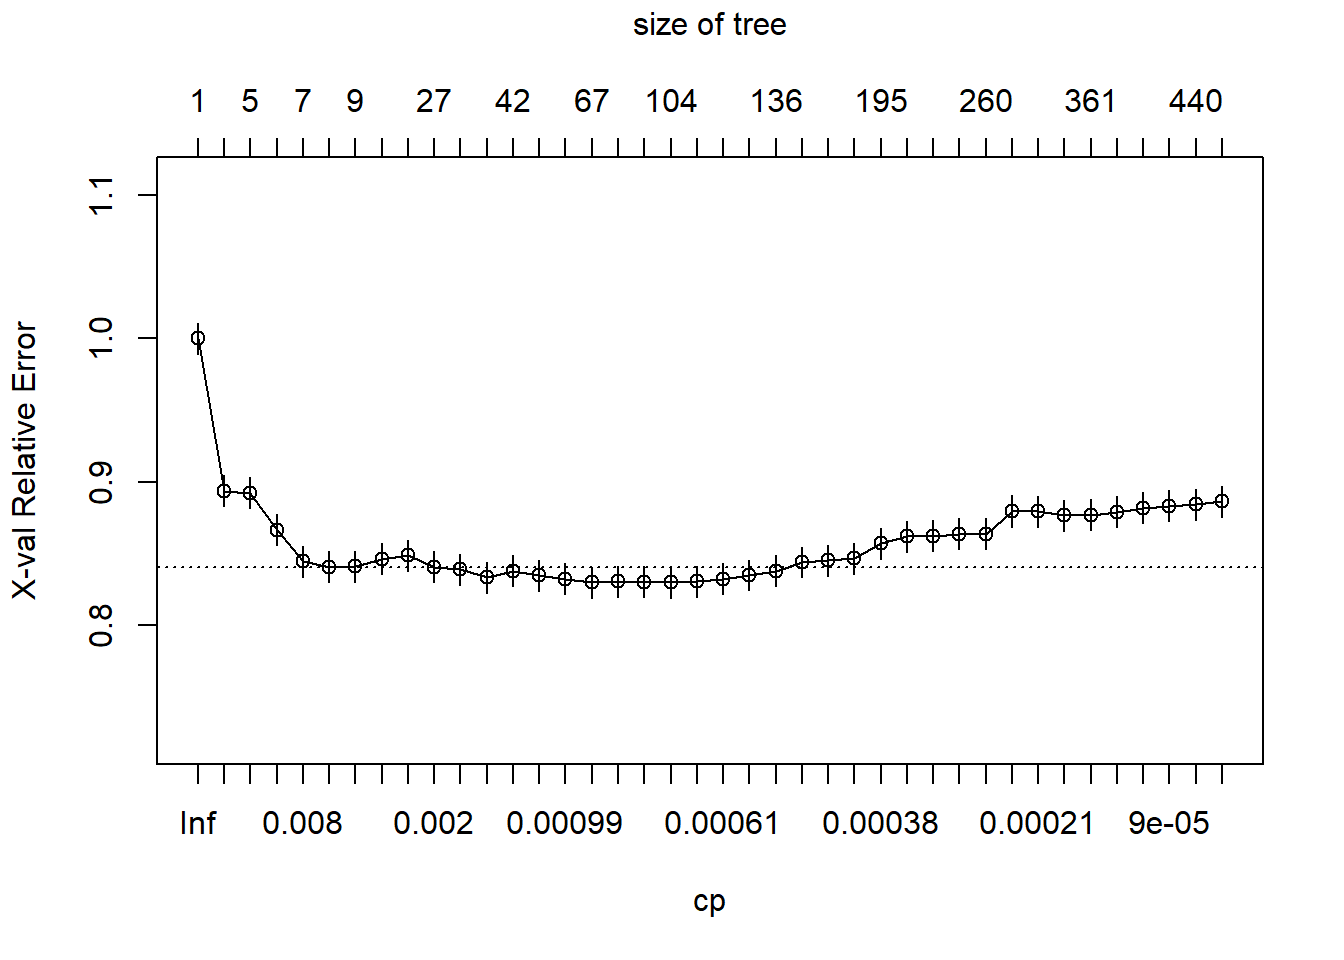
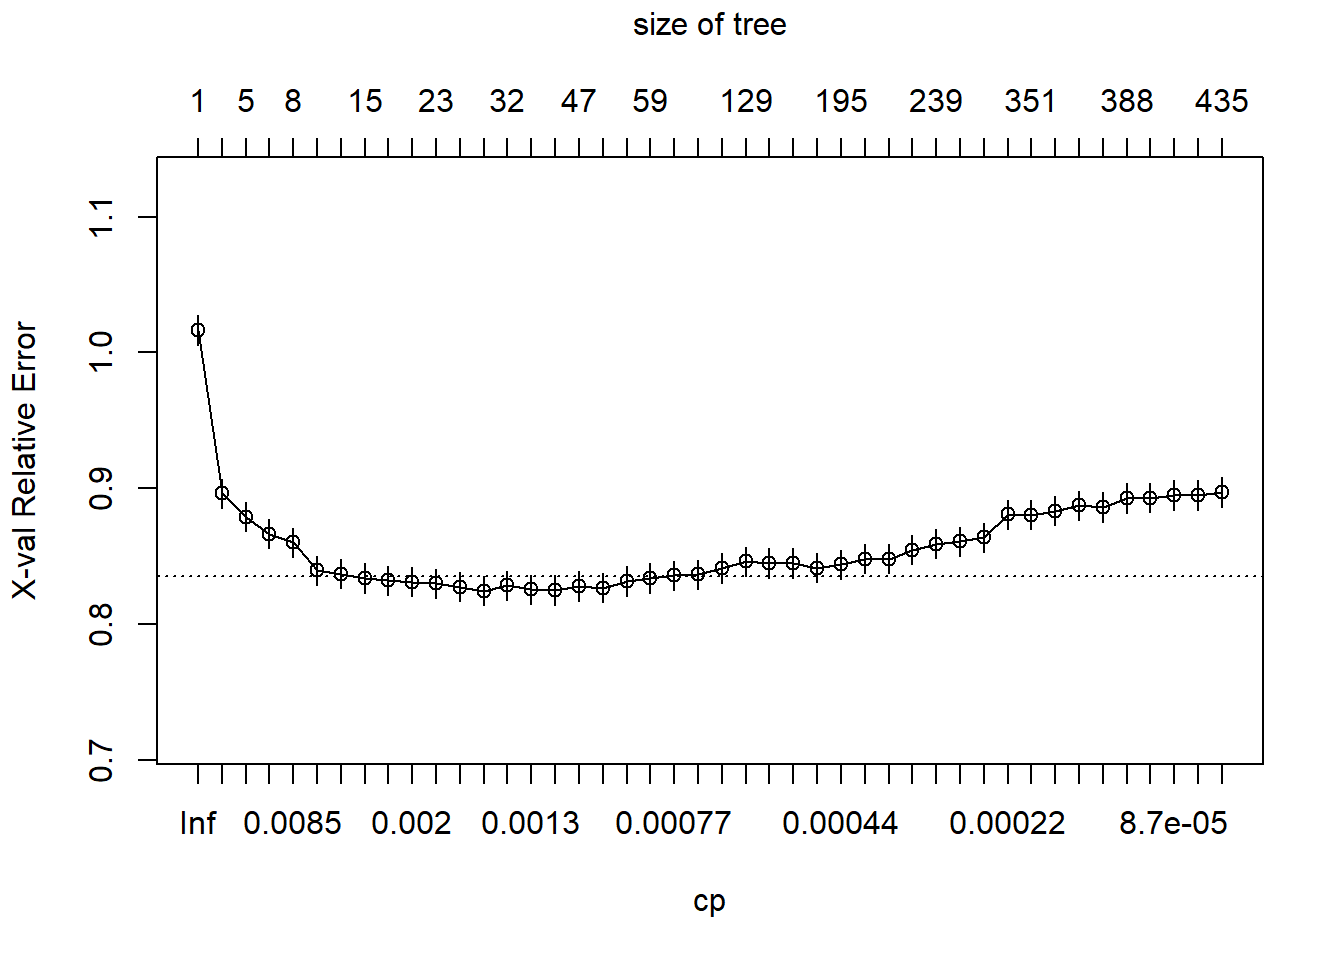
999

diff --git a/content/posts/2021-08-09-supervised-learning-in-r-classification/index.html b/content/posts/2021-08-09-supervised-learning-in-r-classification/index.html
@@ -14,7 +14,7 @@ tags:
 <pre class="r"><code>library(tidyverse)</code></pre>
 <pre><code>## -- Attaching packages --------------------------------------- tidyverse 1.3.1 --</code></pre>
 <pre><code>## v ggplot2 3.3.3     v purrr   0.3.4
-## v tibble  3.1.2     v dplyr   1.0.6
+## v tibble  3.1.1     v dplyr   1.0.6
 ## v tidyr   1.1.3     v stringr 1.4.0
 ## v readr   1.4.0     v forcats 0.5.1</code></pre>
 <pre><code>## -- Conflicts ------------------------------------------ tidyverse_conflicts() --
@@ -573,7 +573,9 @@ rpart.plot(loan_model)</code></pre>
 <pre class="r"><code># Plot the loan_model with customized settings
 rpart.plot(loan_model, type = 3, box.palette = c(&quot;red&quot;, &quot;green&quot;), fallen.leaves = TRUE)</code></pre>
 <p><img src="{{< blogdown/postref >}}index_files/figure-html/unnamed-chunk-11-2.png" width="672" /></p>
-<p>##4-7 Creating random test datasets</p>
+</div>
+<div id="creating-random-test-datasets" class="section level2">
+<h2>4-7 Creating random test datasets</h2>
 <p>Before building a more sophisticated lending model, it is important to hold out a portion of the loan data to simulate how well it will predict the outcomes of future loan applicants.</p>
 <p>As depicted in the following image, you can use 75% of the observations for training and 25% for testing the model.</p>
 <p>The sample() function can be used to generate a random sample of rows to include in the training set. Simply supply it the total number of observations and the number needed for training.</p>
@@ -589,7 +591,9 @@ loans_train &lt;- loans[ sample_rows,]
 
 # Create the test dataset
 loans_test &lt;- loans[-sample_rows,]</code></pre>
-<p>##4-8 Building and evaluating a larger tree</p>
+</div>
+<div id="building-and-evaluating-a-larger-tree" class="section level2">
+<h2>4-8 Building and evaluating a larger tree</h2>
 <p>Previously, you created a simple decision tree that used the applicant’s credit score and requested loan amount to predict the loan outcome.</p>
 <p>Lending Club has additional information about the applicants, such as home ownership status, length of employment, loan purpose, and past bankruptcies, that may be useful for making more accurate predictions.</p>
 <p>Using all of the available applicant data, build a more sophisticated lending model using the random training dataset created previously. Then, use this model to make predictions on the testing dataset to estimate the performance of the model on future loan applications.</p>
@@ -604,12 +608,14 @@ loans_test$pred &lt;- predict(loan_model, loans_test, type = &quot;class&quot;)
 table(loans_test$pred, loans_test$outcome)</code></pre>
 <pre><code>##          
 ##           default repaid
-##   default     811    651
-##   repaid      570    796</code></pre>
+##   default     797    599
+##   repaid      640    792</code></pre>
 <pre class="r"><code># Compute the accuracy on the test dataset
 mean(loans_test$pred==loans_test$outcome)</code></pre>
-<pre><code>## [1] 0.5682461</code></pre>
-<p>##4-11 Preventing overgrown trees</p>
+<pre><code>## [1] 0.5618812</code></pre>
+</div>
+<div id="preventing-overgrown-trees" class="section level2">
+<h2>4-11 Preventing overgrown trees</h2>
 <p>The tree grown on the full set of applicant data grew to be extremely large and extremely complex, with hundreds of splits and leaf nodes containing only a handful of applicants. This tree would be almost impossible for a loan officer to interpret.</p>
 <p>Using the pre-pruning methods for early stopping, you can prevent a tree from growing too large and complex. See how the rpart control options for maximum tree depth and minimum split count impact the resulting tree.</p>
 <pre class="r"><code># Grow a tree with maxdepth of 6
@@ -622,15 +628,17 @@ loans_test$pred &lt;- predict(loan_model, loans_test, type = &quot;class&quot;)
 
 # Compute the accuracy of the simpler tree
 mean(loans_test$pred==loans_test$outcome)</code></pre>
-<pre><code>## [1] 0.5767327</code></pre>
+<pre><code>## [1] 0.5770863</code></pre>
 <pre class="r"><code># Swap maxdepth for a minimum split of 500 
 loan_model &lt;- rpart(outcome ~ ., data = loans_train, method = &quot;class&quot;, control = rpart.control(cp = 0, minsplit = 500))
 
 # Run this. How does the accuracy change?
 loans_test$pred &lt;- predict(loan_model, loans_test, type = &quot;class&quot;)
 mean(loans_test$pred == loans_test$outcome)</code></pre>
-<pre><code>## [1] 0.5763791</code></pre>
-<p>##4-12 Creating a nicely pruned tree</p>
+<pre><code>## [1] 0.6032532</code></pre>
+</div>
+<div id="creating-a-nicely-pruned-tree" class="section level2">
+<h2>4-12 Creating a nicely pruned tree</h2>
 <p>Stopping a tree from growing all the way can lead it to ignore some aspects of the data or miss important trends it may have discovered later.</p>
 <p>By using post-pruning, you can intentionally grow a large and complex tree then prune it to be smaller and more efficient later on.</p>
 <p>In this exercise, you will have the opportunity to construct a visualization of the tree’s performance versus complexity, and use this information to prune the tree to an appropriate level.</p>
@@ -647,8 +655,10 @@ loan_model_pruned &lt;- prune(loan_model, cp = 0.0014)
 # Compute the accuracy of the pruned tree
 loans_test$pred &lt;- predict(loan_model_pruned, loans_test, type = &quot;class&quot;)
 mean(loans_test$pred==loans_test$outcome)</code></pre>
-<pre><code>## [1] 0.5869873</code></pre>
-<p>##4-16 Building a random forest model</p>
+<pre><code>## [1] 0.5997171</code></pre>
+</div>
+<div id="building-a-random-forest-model" class="section level2">
+<h2>4-16 Building a random forest model</h2>
 <p>In spite of the fact that a forest can contain hundreds of trees, growing a decision tree forest is perhaps even easier than creating a single highly-tuned tree.</p>
 <p>Using the randomForest package, build a random forest and see how it compares to the single trees you built previously.</p>
 <p>Keep in mind that due to the random nature of the forest, the results may vary slightly each time you create the forest.</p>
@@ -670,6 +680,6 @@ loan_model &lt;- randomForest(factor(outcome) ~ ., data = loans_train)
 # Compute the accuracy of the random forest
 loans_test$pred &lt;- predict(loan_model, loans_test)
 mean(loans_test$pred==loans_test$outcome)</code></pre>
-<pre><code>## [1] 0.5958274</code></pre>
+<pre><code>## [1] 0.5919378</code></pre>
 </div>
 </div>
